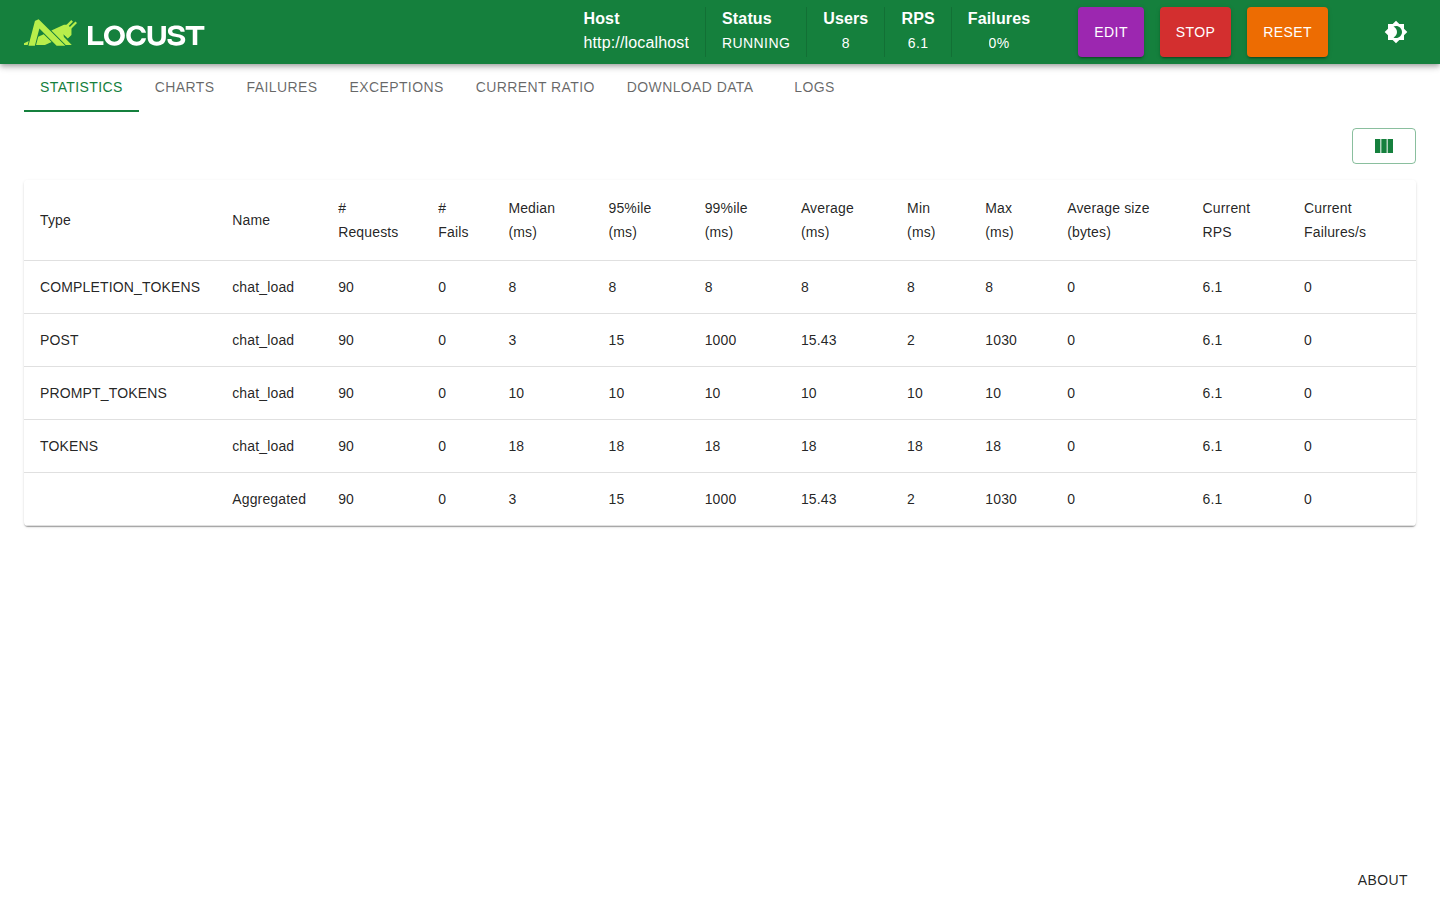
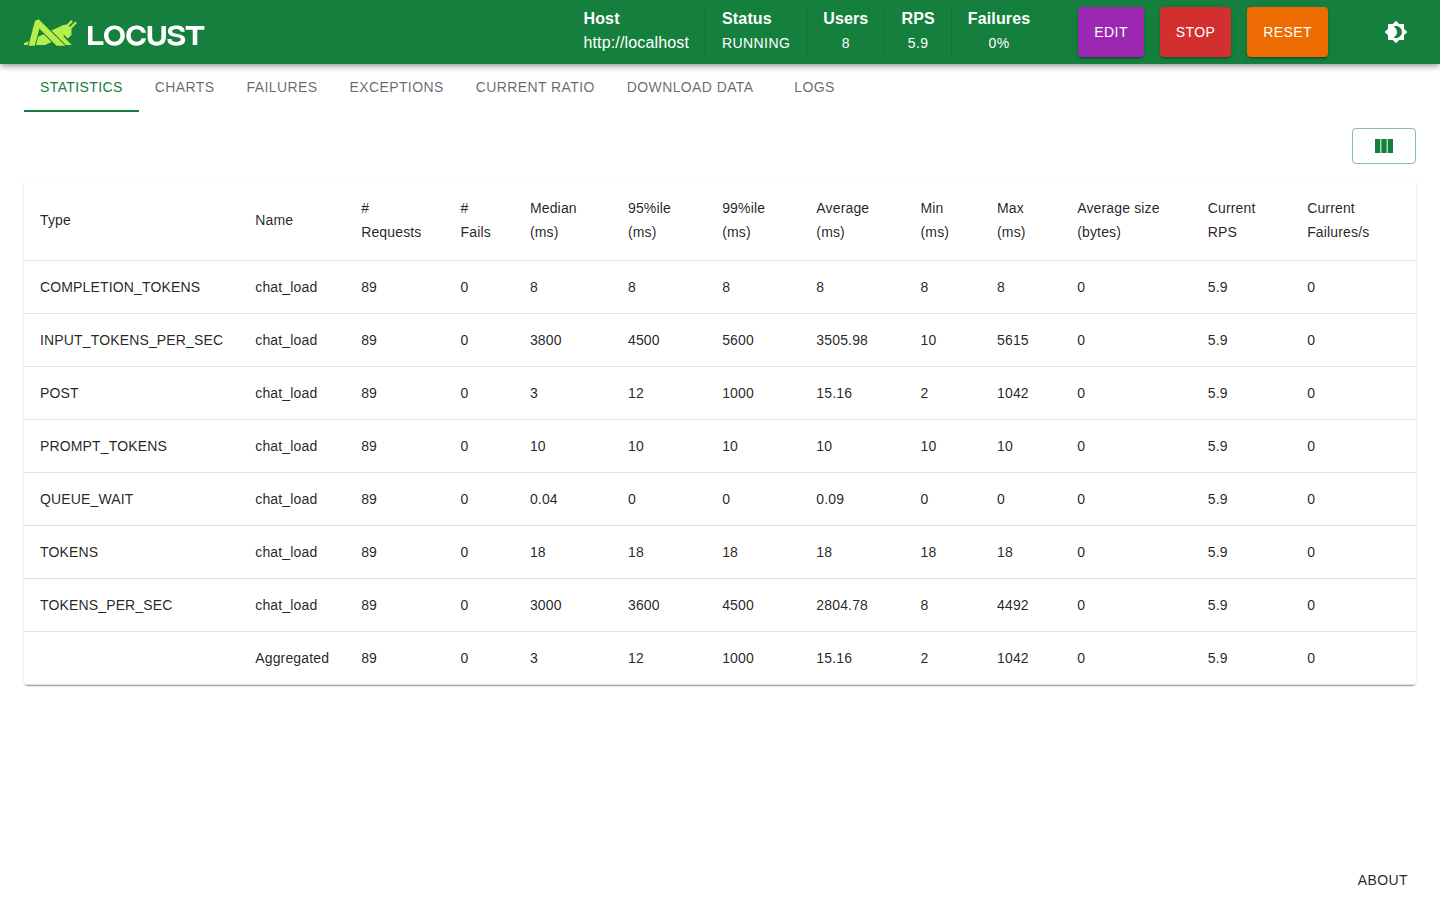
Capture screenshots of all observability dashboards
Add scripts/screenshot_dashboards.py to capture Grafana, Prometheus,
and Jaeger pages via Playwright alongside the existing Locust UI shot.
Also clean up the temporary locust config the Locust script leaves
behind.

Generated with [Devin](https://devin.ai)

diff --git a/scripts/screenshot_dashboards.py b/scripts/screenshot_dashboards.py
@@ -1,0 +1,86 @@
+"""Capture screenshots of all observability dashboards into docs/screenshots/.
+
+Requires the docker compose stack to be running (docker compose up -d) with at
+least one completed test run so panels/traces contain data.
+
+Usage: .venv/bin/python scripts/screenshot_dashboards.py
+"""
+
+from __future__ import annotations
+
+import sys
+import time
+from pathlib import Path
+
+from playwright.sync_api import sync_playwright
+
+ROOT = Path(__file__).resolve().parent.parent
+OUT = ROOT / "docs" / "screenshots"
+OUT.mkdir(parents=True, exist_ok=True)
+
+VIEWPORT = {"width": 1600, "height": 1000}
+
+
+def shot(page, url: str, path: Path, wait_ms: int = 4000, extra_wait: float = 0.0) -> None:
+    print(f"capturing {url} -> {path.name}")
+    page.goto(url, wait_until="networkidle", timeout=30000)
+    page.wait_for_timeout(wait_ms)
+    if extra_wait:
+        time.sleep(extra_wait)
+    page.screenshot(path=str(path), full_page=False)
+
+
+def grafana(page) -> None:
+    # Grafana may show a login page; default admin/admin is provisioned by compose.
+    page.goto("http://localhost:3000/login", wait_until="networkidle", timeout=30000)
+    if page.locator('input[name="user"]').count():
+        page.fill('input[name="user"]', "admin")
+        page.fill('input[name="password"]', "admin")
+        page.click('button[type="submit"]')
+        page.wait_for_load_state("networkidle")
+    shot(
+        page,
+        "http://localhost:3000/d/llm-perf-main/llm-perf-e28094-llm-performance-and-quality",
+        OUT / "grafana-llm-perf.png",
+        wait_ms=8000,
+    )
+
+
+def prometheus(page) -> None:
+    # Graph page pre-loaded with an llm_perf query via URL params.
+    expr = "histogram_quantile(0.95, sum by (le) (rate(llm_perf_request_duration_seconds_bucket[5m])))"
+    url = (
+        "http://localhost:9090/graph"
+        "?g0.expr=" + expr.replace(" ", "%20").replace("(", "%28").replace(")", "%29")
+        + "&g0.tab=0"
+    )
+    shot(page, url, OUT / "prometheus.png", wait_ms=6000)
+
+
+def jaeger(page) -> None:
+    # Jaeger search page filtered to the demo service.
+    shot(
+        page,
+        "http://localhost:16686/search?service=llm-perf-demo&lookback=1h",
+        OUT / "jaeger-traces.png",
+        wait_ms=6000,
+    )
+
+
+def main() -> int:
+    with sync_playwright() as p:
+        browser = p.chromium.launch(channel="chrome", headless=True)
+        ctx = browser.new_context(viewport=VIEWPORT)
+        page = ctx.new_page()
+        for fn in (grafana, prometheus, jaeger):
+            try:
+                fn(page)
+            except Exception as exc:  # keep going; one dashboard down shouldn't block others
+                print(f"FAILED {fn.__name__}: {exc}", file=sys.stderr)
+        browser.close()
+    print("done ->", OUT)
+    return 0
+
+
+if __name__ == "__main__":
+    raise SystemExit(main())

diff --git a/scripts/screenshot_dashboard.py b/scripts/screenshot_dashboard.py
@@ -89,3 +89,4 @@ finally:
     proc.terminate()
     proc.wait(timeout=10)
     srv.shutdown()
+    cfg_path.unlink(missing_ok=True)

diff --git a/docs/README.md b/docs/README.md
@@ -11,6 +11,16 @@ This directory contains the framework documentation:
 | [methodology.md](methodology.md) | Timing accuracy, gevent concurrency model, when streaming metrics are unreliable |
 | [demo.md](demo.md) | Live demo: start the Docker observability stack, dashboard URLs, run a mock test |
 
-Dashboard screenshots live in [screenshots/](screenshots/) — currently the
-Locust live UI capture `screenshots/locust-ui.png`. Regenerate it with
-`python scripts/screenshot_dashboard.py`.
+Dashboard screenshots live in [screenshots/](screenshots/):
+
+| File | Dashboard |
+|---|---|
+| `screenshots/grafana-llm-perf.png` | Grafana — LLM Performance & Quality dashboard |
+| `screenshots/prometheus.png` | Prometheus — p95 request-duration graph |
+| `screenshots/jaeger-traces.png` | Jaeger — trace search for `llm-perf-demo` |
+| `screenshots/locust-ui.png` | Locust live UI during a run |
+
+Regenerate the Docker-stack shots with
+`.venv/bin/python scripts/screenshot_dashboards.py` (stack must be running via
+`docker compose up -d`) and the Locust shot with
+`.venv/bin/python scripts/screenshot_dashboard.py`. See [demo.md](demo.md).
